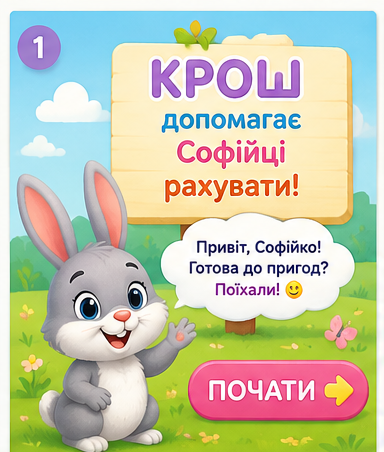
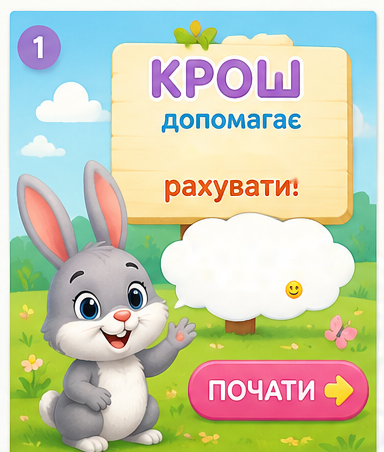
Physically clean images using OpenCV and remove CSS patches

diff --git a/index.html b/index.html
@@ -15,7 +15,7 @@
     <div class="games-grid">
       <!-- Математика з Крошем -->
       <div class="game-card" onclick="app.launchGame('krosh')">
-        <img src="assets/image1.png" alt="Математика">
+        <img src="assets/image1.png?v=4" alt="Математика">
         <div class="game-card-info">
           <h2>Математика</h2>
           <p>Рахуємо з Крошем</p>
@@ -60,14 +60,10 @@
     <div class="slides-wrapper">
 
       <!-- Слайд 1: Обкладинка -->
-      <div class="slide-item active" id="slide-1" style="background-image: url('assets/image1.png');">
-        <!-- Текстова латка для імені "Софійці" (просто порожній фон, щоб стерти слово) -->
-        <div class="text-patch patch-sign" style="position: absolute; left: 30%; top: 31%; width: 40%; height: 8%; background: #ffe4b5; border-radius: 8px;"></div>
-        
-        <!-- Текстова латка для "Привіт, Софійко! Готова до пригод?" у хмарці -->
-        <div class="text-patch patch-bubble" style="position: absolute; left: 40%; top: 48%; width: 56%; height: 13%; background: white; border-radius: 15px; display: flex; flex-direction: column; justify-content: center; align-items: center; line-height: 1.2;">
-          <span style="color: #3b2a5c; font-size: 3.5cqi; font-weight: 800;">Привіт, друже!</span>
-          <span style="color: #3b2a5c; font-size: 3.5cqi; font-weight: 800;">Готові до пригод?</span>
+      <div class="slide-item active" id="slide-1" style="background-image: url('assets/image1.png?v=4');">
+        <!-- Чистий текст поверх хмарки (без фону!) -->
+        <div style="position: absolute; left: 45%; top: 46%; width: 45%; text-align: center; color: #3b2a5c; font-size: 3.5cqi; font-weight: 800; line-height: 1.4;">
+          Привіт, друже!<br>Готові до пригод?
         </div>
 
         <!-- Кнопка "ПОЧАТИ" -->
@@ -151,9 +147,11 @@
       </div>
 
       <!-- Слайд 8: Фінал -->
-      <div class="slide-item" id="slide-8" style="background-image: url('assets/image8.png');">
-        <!-- Текстова латка для гендерного закінчення "попрацювала!" -->
-        <div class="text-patch patch-bubble" style="position: absolute; left: 5%; top: 16%; width: 90%; height: 9%; background: #d7f4ff; color: #f43f5e; font-size: 5cqi; font-weight: 800; border-radius: 5px;">супер робота!</div>
+      <div class="slide-item" id="slide-8" style="background-image: url('assets/image8.png?v=4');">
+        <!-- Чистий текст у небі (без фону!) -->
+        <div style="position: absolute; left: 10%; top: 12%; width: 80%; text-align: center; color: #fb7185; font-size: 6cqi; font-weight: 900; text-shadow: 2px 2px 0px white, -2px -2px 0px white, 2px -2px 0px white, -2px 2px 0px white;">
+          Ти сьогодні<br>супер молодець!
+        </div>
         
         <!-- Кнопка рестарту поверх нижнього напису -->
         <button class="overlay-element invisible-btn" id="restart-game" style="left: 7.8%; top: 79.6%; width: 83.3%; height: 17.7%;" title="На головну"></button>
